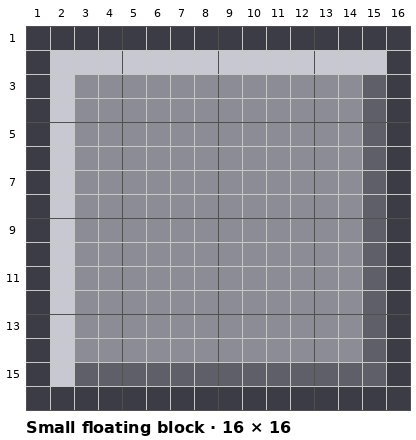
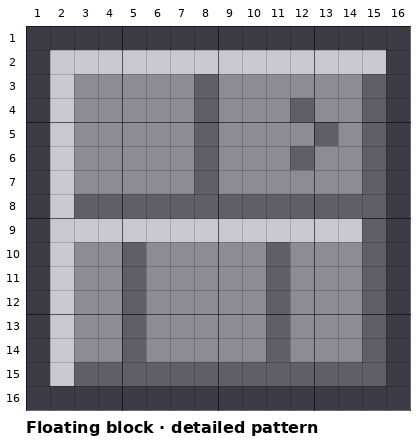
Piskel Lesson 0: detailed pixel patterns for all three platforms
Claude-Session: https://claude.ai/code/session_0163dwnSqmda83AYdx5uHJCj

diff --git a/piskel/lesson-00-three-platforms/index.html b/piskel/lesson-00-three-platforms/index.html
@@ -43,8 +43,9 @@
     <li>Piskel is free and runs in the browser. Nothing needs installing and you do not need an account.</li>
     <li>The address is <b>piskelapp.com</b>, not piskel.com.</li>
     <li>You hardly draw pixel by pixel. Most of the work is three tools: <b>Rectangle</b> for the outline, <b>Paint bucket</b> to fill it, and <b>Stroke</b> for straight lines.</li>
+    <li>Each platform is made in two steps: a <b>basic shape</b> first (quick, mostly big tools), then <b>details</b> drawn pixel by pixel. For the details you can copy the numbered pattern exactly, or make up your own.</li>
     <li>Your colours do not have to match. Make the grass purple or the stone gold if you like, as long as you keep the sizes.</li>
-    <li>Time: about one class period.</li>
+    <li>Time: about one class period for the basic shapes, plus part of a second class for all the details.</li>
     <li>Click a part to open it. Opening one part closes the others. Tick every checkpoint box before you move on; your ticks are remembered on this computer.</li>
   </ul>
 </section>
@@ -62,22 +63,25 @@
       <div class="bubble"><b>2A · Outline</b>Rectangle tool · #3B2414<br>Whole canvas, corner to corner</div><span class="arrow">→</span>
       <div class="bubble"><b>2B · Grass line</b>Stroke tool · row 5<br>Across from side to side</div><span class="arrow">→</span>
       <div class="bubble"><b>2C · Fill</b>Paint bucket<br>Grass #5AC850 · Dirt #8B5A2B</div><span class="arrow">→</span>
-      <div class="bubble"><b>2D · Specks</b>Pen · #6B4220<br>2-pixel specks in the dirt</div><span class="arrow">→</span>
-      <div class="bubble"><b>2E · Save + export</b>Save: ground.piskel<br>Export → PNG → Download</div>
+      <div class="bubble"><b>2D · Grass details</b>Pen · row 2 #96E678 · row 4 #3C9637<br>Drips under row 5</div><span class="arrow">→</span>
+      <div class="bubble"><b>2E · Dirt details</b>Specks #6B4220<br>Stones #B4A08C</div><span class="arrow">→</span>
+      <div class="bubble"><b>2F · Save + export</b>Save: ground.piskel<br>Export → PNG → Download</div>
     </div></div>
     <div class="down">↓</div>
     <div class="band" style="--c:var(--p3)"><h4><a href="#part3">Part 3 · Small floating block</a></h4><div class="bubbles">
       <div class="bubble"><b>3A · New sprite</b>New tab · Create Sprite<br>Resize 16 × 16</div><span class="arrow">→</span>
       <div class="bubble"><b>3B · Outline + fill</b>Rectangle #3C3C46<br>Bucket #8C8C96</div><span class="arrow">→</span>
       <div class="bubble"><b>3C · Edges</b>Stroke: light #C8C8D2 top + left<br>dark #5F5F69 bottom + right</div><span class="arrow">→</span>
-      <div class="bubble"><b>3D · Save + export</b>block.piskel<br>block.png</div>
+      <div class="bubble"><b>3D · Bricks</b>Mortar #5F5F69 · row 9 #C8C8D2<br>Crack</div><span class="arrow">→</span>
+      <div class="bubble"><b>3E · Save + export</b>block.piskel<br>block.png</div>
     </div></div>
     <div class="down">↓</div>
     <div class="band" style="--c:var(--p4)"><h4><a href="#part4">Part 4 · Log platform</a></h4><div class="bubbles">
       <div class="bubble"><b>4A · New sprite</b>New tab · Create Sprite<br>Resize 48 × 16</div><span class="arrow">→</span>
       <div class="bubble"><b>4B · Outline + round ends</b>Rectangle #4A2C12<br>Erase 3 px per corner, add 1 inside</div><span class="arrow">→</span>
       <div class="bubble"><b>4C · Fill + bark</b>Bucket #8B5A2B · row 4 #B07A45<br>rows 9 + 13 #6B4220</div><span class="arrow">→</span>
-      <div class="bubble"><b>4D · Save + export</b>log.piskel<br>log.png</div>
+      <div class="bubble"><b>4D · Cut end + knot</b>Face #DCB478 · rings #A87444<br>Knot · break the bark lines</div><span class="arrow">→</span>
+      <div class="bubble"><b>4E · Save + export</b>log.piskel<br>log.png</div>
     </div></div>
     <div class="down">↓</div>
     <div class="band" style="--c:var(--p5)"><h4><a href="#part5">Part 5 · Hand in</a></h4><div class="bubbles">
@@ -144,15 +148,17 @@
 <details class="part" id="part2" name="parts" style="--c:var(--p2)">
 <summary><h2>Part 2 · Big ground platform</h2><span class="done"></span></summary>
 <div class="body">
-<p>A dark brown box, a line to split off the grass, two fills, and some specks of dirt.</p>
-<img class="ref" src="img/ground-grid.png" alt="The ground platform on a numbered 64 by 16 grid" width="800" height="248">
-<img class="ref" src="img/ground-big.png" alt="The finished ground platform, shown bigger" width="384" height="96">
+<p>First the basic shape: a dark brown box, a line to split off the grass, and two fills. Then the details.</p>
+<img class="ref" src="img/ground-basic-grid.png" alt="The basic ground platform on a numbered 64 by 16 grid" width="800" height="248">
 <table>
 <tr><th>Part of the platform</th><th>Colour code</th></tr>
 <tr><td>Outline and grass line</td><td><b>#3B2414</b> (very dark brown)</td></tr>
 <tr><td>Grass</td><td><b>#5AC850</b> (green)</td></tr>
 <tr><td>Dirt</td><td><b>#8B5A2B</b> (brown)</td></tr>
-<tr><td>Specks</td><td><b>#6B4220</b> (darker brown)</td></tr>
+<tr><td>Grass highlight</td><td><b>#96E678</b> (light green)</td></tr>
+<tr><td>Grass shadow and drips</td><td><b>#3C9637</b> (dark green)</td></tr>
+<tr><td>Specks and stone shadows</td><td><b>#6B4220</b> (darker brown)</td></tr>
+<tr><td>Stones</td><td><b>#B4A08C</b> (pale grey-brown)</td></tr>
 </table>
 <p><b>How to pick a colour:</b> click the big <b>primary colour</b> square (far left, under the tools). A colour chooser opens. Click in the text box at the bottom, delete what is there, type the colour code (for example <b>#3B2414</b>) and press <b>Enter</b>, then click back on the canvas to close the chooser. The primary square changes to that colour.</p>
 
@@ -181,14 +187,31 @@
 </ol>
 <div class="note pick"><b>Pick the right one:</b> use the <b>Paint bucket tool</b>, not <b>Paint all pixels of the same color</b>. The second one recolours every matching pixel in the whole picture.</div>
 
-<h3>2D · Dirt specks</h3>
+<div class="check"><strong>Checkpoint · Basic shape</strong>
+<label><input type="checkbox"> The platform has a green top band, a brown body and a dark outline all round, like the basic-shape picture</label>
+</div>
+
+<h3>2D · Grass details</h3>
+<p>Now copy the detailed pattern, or make up your own details. The numbers along the top and side count the pixels, so you can find your place.</p>
+<img class="ref" src="img/ground-grid.png" alt="The detailed ground platform pattern on a numbered 64 by 16 grid" width="800" height="248">
+<img class="ref" src="img/ground-big.png" alt="The finished detailed ground platform, shown bigger" width="384" height="96">
 <ol>
-<li>Pick <b>#6B4220</b> and choose the <b>Pen tool</b>.</li>
-<li>Click two side-by-side pixels in the dirt to make one speck. Make about 10 specks, spread out, at different heights. They do not need to match the picture.</li>
-<li>Made a mistake? <b>Right-click</b> a pixel with the Pen to erase it, then put the brown back with the Paint bucket.</li>
+<li>Pick <b>#96E678</b> and choose the <b>Stroke tool</b>. Drag along <b>row 2</b> from column 2 to column 63. The top of the grass turns light green.</li>
+<li>Choose the <b>Pen tool</b> and pick the plain green <b>#5AC850</b>. On row 2, click every 4th pixel to put plain green back (columns 2, 6, 10, 14 and so on, as in the picture). The gaps look like separate blades of grass.</li>
+<li>Pick <b>#3C9637</b> and the <b>Stroke tool</b>. Drag along <b>row 4</b> from column 2 to column 63. This is the shadow at the bottom of the grass.</li>
+<li>With the <b>Pen</b> and green <b>#5AC850</b>, put a few plain green pixels back on row 4 (every 6th pixel in the picture).</li>
+<li>Pick <b>#3C9637</b> again. With the <b>Pen</b>, draw the <b>drips</b>: short bits of grass hanging down into the dirt, just below the dark line on row 5. Each drip is 1 to 3 pixels long, going straight down. Copy where they are in the picture, or put your own.</li>
+<li>Made a mistake? <b>Right-click</b> a pixel with the Pen to erase it, then put the right colour back with the Pen.</li>
 </ol>
 
-<h3>2E · Save and export</h3>
+<h3>2E · Dirt details</h3>
+<ol>
+<li>Pick <b>#6B4220</b> and, with the <b>Pen</b>, draw about 12 <b>specks</b> spread out in the dirt. Most are 2 pixels side by side; some are 1 pixel.</li>
+<li><b>Stones:</b> pick <b>#B4A08C</b> and draw a small bump shape: 2 pixels on top, 4 pixels on the row below it. Then pick <b>#6B4220</b> and draw the shadow on the row under that (look at columns 14 to 17, rows 9 to 11, in the picture). Make two stones.</li>
+</ol>
+<div class="note what"><b>Your own ideas:</b> a flower, a buried bone, a worm, a mushroom on the grass. Keep everything inside the outline.</div>
+
+<h3>2F · Save and export</h3>
 <p>You make two files for each platform: a <b>.piskel</b> file so you can keep editing later, and a <b>.png</b> picture for the game.</p>
 <ol>
 <li>Click the <b>Save</b> icon (strip on the far right edge, under Resize). A panel slides out.</li>
@@ -200,7 +223,8 @@
 </ol>
 
 <div class="check"><strong>Checkpoint · Part 2</strong>
-<label><input type="checkbox"> The platform has a green top band, a brown body and a dark outline all round</label>
+<label><input type="checkbox"> The grass has a light top, a dark bottom edge and drips hanging into the dirt</label>
+<label><input type="checkbox"> The dirt has specks and stones (or your own details)</label>
 <label><input type="checkbox"> No see-through (checkerboard) squares are left inside the outline</label>
 <label><input type="checkbox"> ground.piskel and ground.png are in your Downloads folder</label>
 </div>
@@ -213,8 +237,7 @@
 <div class="body">
 <p>A small stone square. A light line on the top and left and a dark line on the bottom and right make it look like it sticks out, as if light is shining from the top-left.</p>
 <div class="refrow">
-<img class="ref" src="img/block-grid.png" alt="The stone block on a numbered 16 by 16 grid" width="416" height="440">
-<img class="ref" src="img/block-big.png" alt="The finished stone block, shown bigger" width="96" height="96">
+<img class="ref" src="img/block-basic-grid.png" alt="The basic stone block on a numbered 16 by 16 grid" width="416" height="440">
 </div>
 <table>
 <tr><th>Part of the block</th><th>Colour code</th></tr>
@@ -249,8 +272,22 @@
 </ol>
 <div class="note what"><b>Look at the Preview</b> (top-right corner). At its real small size, the block should look raised, like a button.</div>
 
-<h3>3D · Save and export</h3>
-<p>Same steps as <a href="#part2">2E</a>, with the name <b>block</b>:</p>
+<h3>3D · Bricks</h3>
+<p>Turn the plain stone into bricks. Copy the pattern, or draw your own brick layout.</p>
+<div class="refrow">
+<img class="ref" src="img/block-grid.png" alt="The detailed stone block pattern on a numbered 16 by 16 grid" width="416" height="440">
+<img class="ref" src="img/block-big.png" alt="The finished detailed stone block, shown bigger" width="96" height="96">
+</div>
+<ol>
+<li>Pick <b>#5F5F69</b> and the <b>Stroke tool</b>. Drag along <b>row 8</b> from column 3 to column 14. This is the mortar line between the top and bottom bricks.</li>
+<li>Pick <b>#C8C8D2</b> and drag along <b>row 9</b> from column 3 to column 14, right under the mortar. The light line makes the bottom bricks look like they stick out.</li>
+<li>Pick <b>#5F5F69</b> again. Drag down <b>column 8</b> from row 3 to row 7 (one joint in the top row of bricks).</li>
+<li>Drag down <b>column 5</b> from row 10 to row 14, and down <b>column 11</b> from row 10 to row 14 (two joints in the bottom row). The joints don't line up, just like a real brick wall.</li>
+<li><b>Crack:</b> with the <b>Pen</b> and <b>#5F5F69</b>, click 3 pixels in a zigzag: row 4 column 12, row 5 column 13, row 6 column 12.</li>
+</ol>
+
+<h3>3E · Save and export</h3>
+<p>Same steps as <a href="#part2">2F</a>, with the name <b>block</b>:</p>
 <ol>
 <li><b>Save</b> icon → Title <b>block</b> → <b>Save offline as File</b>. You get <b>block.piskel</b>.</li>
 <li><b>Export</b> icon → <b>PNG</b> tab → <b>Download</b> under Spritesheet file export. You get <b>block.png</b>.</li>
@@ -259,6 +296,7 @@
 <div class="check"><strong>Checkpoint · Part 3</strong>
 <label><input type="checkbox"> The block is grey with a dark outline</label>
 <label><input type="checkbox"> The top and left inside edges are light; the bottom and right are dark</label>
+<label><input type="checkbox"> The block shows bricks with joints that don't line up (or your own pattern)</label>
 <label><input type="checkbox"> block.piskel and block.png are in your Downloads folder</label>
 </div>
 </div>
@@ -268,15 +306,16 @@
 <details class="part" id="part4" name="parts" style="--c:var(--p4)">
 <summary><h2>Part 4 · Log platform</h2><span class="done"></span></summary>
 <div class="body">
-<p>A log is a cylinder lying on its side. Rounded ends and a light stripe near the top make a flat drawing look round.</p>
-<img class="ref" src="img/log-grid.png" alt="The log on a numbered 48 by 16 grid" width="752" height="296">
-<img class="ref" src="img/log-big.png" alt="The finished log, shown bigger" width="288" height="96">
+<p>A log is a cylinder lying on its side. Rounded ends and a light stripe near the top make a flat drawing look round. The detailed version adds a sawn-off end with tree rings.</p>
+<img class="ref" src="img/log-basic-grid.png" alt="The basic log on a numbered 48 by 16 grid" width="752" height="296">
 <table>
 <tr><th>Part of the log</th><th>Colour code</th></tr>
 <tr><td>Outline</td><td><b>#4A2C12</b> (very dark brown)</td></tr>
 <tr><td>Bark</td><td><b>#8B5A2B</b> (brown)</td></tr>
 <tr><td>Light stripe</td><td><b>#B07A45</b> (light brown)</td></tr>
-<tr><td>Bark lines</td><td><b>#6B4220</b> (darker brown)</td></tr>
+<tr><td>Bark lines and knot</td><td><b>#6B4220</b> (darker brown)</td></tr>
+<tr><td>Cut end (the wood face)</td><td><b>#DCB478</b> (pale wood)</td></tr>
+<tr><td>Tree rings</td><td><b>#A87444</b> (medium brown)</td></tr>
 </table>
 
 <h3>4A · New sprite, 48 × 16</h3>
@@ -302,7 +341,21 @@
 <li>Pick <b>#6B4220</b> and drag two more lines, from column 4 to column 45: one on <b>row 9</b> and one on <b>row 13</b>. These are the bark lines.</li>
 </ol>
 
-<h3>4D · Save and export</h3>
+<h3>4D · Cut end and knot</h3>
+<p>Show the sawn-off end of the log with its tree rings, and add a knot in the bark. Copy the pattern, or make up your own.</p>
+<img class="ref" src="img/log-grid.png" alt="The detailed log pattern on a numbered 48 by 16 grid" width="752" height="296">
+<img class="ref" src="img/log-big.png" alt="The finished detailed log, shown bigger" width="288" height="96">
+<ol>
+<li><b>Clear the way:</b> pick the bark colour <b>#8B5A2B</b> and the <b>Stroke tool</b>. Drag over <b>rows 4, 9 and 13</b> from column 38 to column 46. The right ends of the three lines disappear, so they won't cut through the wood face.</li>
+<li><b>Edge of the cut end:</b> pick <b>#4A2C12</b> and, with the <b>Pen</b>, draw the tall oval at the right end, as in the picture: column 39 from row 4 to row 13, column 47 from row 4 to row 13, row 2 and row 15 from column 41 to column 46, and one corner pixel at each of row 3 and row 14 (columns 40 and 47).</li>
+<li><b>Wood face:</b> pick <b>#DCB478</b> and the <b>Paint bucket</b>, and click inside the oval. If the colour spills into the bark, there is a gap in the oval: press <b>Ctrl+Z</b> and close it.</li>
+<li><b>Rings:</b> pick <b>#A87444</b> and, with the <b>Pen</b>, draw a smaller ring inside the face (columns 41 to 46, rows 5 to 12) and a 2 × 2 dot in the very middle.</li>
+<li><b>Break the bark lines:</b> still with <b>#8B5A2B</b>, click a few single pixels on the dark lines (rows 9 and 13) to put small gaps in them. Real bark is not one long straight line.</li>
+<li><b>Knot:</b> pick <b>#6B4220</b> and draw a small ring of 6 pixels around columns 20 to 23, rows 6 to 8, then fill its centre 2 pixels with <b>#4A2C12</b>.</li>
+</ol>
+<div class="note what"><b>Your own ideas:</b> moss on top, a mushroom growing out of the bark, a carved arrow. Keep it all inside the outline.</div>
+
+<h3>4E · Save and export</h3>
 <ol>
 <li><b>Save</b> icon → Title <b>log</b> → <b>Save offline as File</b>. You get <b>log.piskel</b>.</li>
 <li><b>Export</b> icon → <b>PNG</b> tab → <b>Download</b> under Spritesheet file export. You get <b>log.png</b>.</li>
@@ -311,6 +364,7 @@
 <div class="check"><strong>Checkpoint · Part 4</strong>
 <label><input type="checkbox"> The four corners of the log are rounded, not square</label>
 <label><input type="checkbox"> There is one light stripe near the top and two dark bark lines lower down</label>
+<label><input type="checkbox"> The right end shows a pale wood face with tree rings, and there is a knot in the bark</label>
 <label><input type="checkbox"> log.piskel and log.png are in your Downloads folder</label>
 </div>
 </div>
